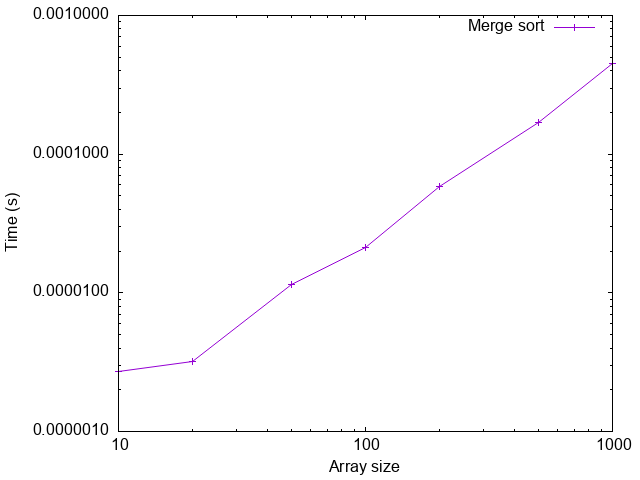
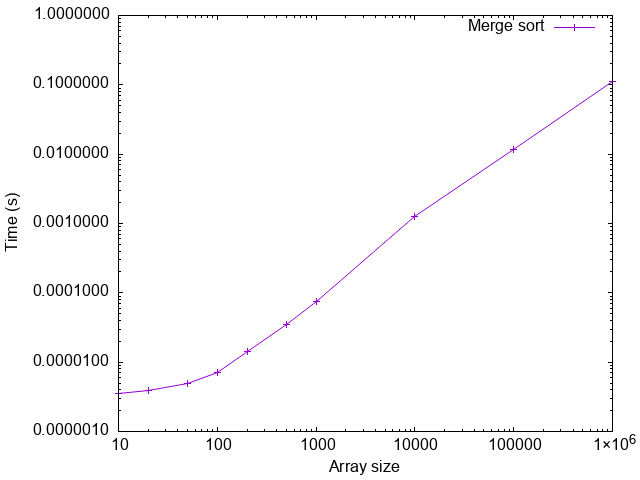
added std_sort

diff --git a/Students/Poppe/TP1/src/merge_sort.cpp b/Students/Poppe/TP1/src/merge_sort.cpp
@@ -4,11 +4,17 @@
 #include "merge_sort.hpp"
 #include "insertion_sort.hpp"
 
-void merge_sort_old(int* array, size_t size) {
+const size_t MERGE_SORT_THRESHOLD = 32;
+
+void merge_sort(int* array, size_t size) {
     int* temp = new int[size];
     int* from = array;
     int* into = temp;
-    for(size_t width = 1; width < size; width*=2) {
+    for(size_t l=0; l < size; l += MERGE_SORT_THRESHOLD) {
+        size_t len = std::min(MERGE_SORT_THRESHOLD, size - l);
+        insertion_sort(array + l, len);
+    }
+    for(size_t width = MERGE_SORT_THRESHOLD; width < size; width*=2) {
         for(size_t l=0; l < size; l += width * 2) {
             size_t l_len = std::min(width, size - l);
             size_t l_i = 0;
@@ -37,10 +43,11 @@ void merge_sort_old(int* array, size_t size) {
         }
         std::swap(from, into);
     }
-    if (into == from) {
+    if (from == temp) {
         //memcopy back since odd transfer count
         memcpy(array, temp, size * sizeof(int));
     }
+    delete[] temp;
 }
 
 void merge(int* array, size_t l, size_t l_end, size_t r, size_t r_end, int* output) {
@@ -70,9 +77,7 @@ void merge(int* array, size_t l, size_t l_end, size_t r, size_t r_end, int* outp
     }
 }
 
-const size_t MERGE_SORT_THRESHOLD = 32;
-
-void merge_sort(int* array, size_t size) {
+void merge_sort_inplace(int* array, size_t size) {
     if (size <= MERGE_SORT_THRESHOLD) {
         insertion_sort(array, size);
         return;
@@ -82,20 +87,18 @@ void merge_sort(int* array, size_t size) {
     while (sorted > 1) {
         size_t halved = sorted / 2;
         size_t quarter = halved / 2;
-        merge_sort(array + halved, quarter);
-        merge_sort(array + halved + quarter, halved - quarter);
+        merge_sort_inplace(array + halved, quarter);
+        merge_sort_inplace(array + halved + quarter, halved - quarter);
         merge(array + halved, 0, quarter, quarter, halved, array);
 
         merge(array, 0, halved, sorted, size, array + sorted - halved);
         sorted -= halved;
     }
-    if (sorted == 1) {
-        for (size_t i = 0; i < size - 1; i++) {
-            if (array[i] > array[i + 1]) {
-                std::swap(array[i], array[i + 1]);
-            } else {
-                break;
-            }
+    for (size_t i = 0; i < size - 1; i++) {
+        if (array[i] > array[i + 1]) {
+            std::swap(array[i], array[i + 1]);
+        } else {
+            break;
         }
     }
 }

diff --git a/Students/Poppe/TP1/src/test_sort.cpp b/Students/Poppe/TP1/src/test_sort.cpp
@@ -10,11 +10,14 @@
 #include "bubble_sort.hpp"
 #include "insertion_sort.hpp"
 #include "merge_sort.hpp"
+#include "std_sort.hpp"
 
 std::pair<std::function<void (int*, size_t)>, std::string> algorithms[] = {
-    std::make_pair(bubble_sort, "Bubble sort"), 
-    std::make_pair(insertion_sort, "Insertion sort"),
-    std::make_pair(merge_sort, "Merge sort")
+    //std::make_pair(bubble_sort, "Bubble sort"), 
+    //std::make_pair(insertion_sort, "Insertion sort"),
+    std::make_pair(merge_sort, "Merge sort"),
+    std::make_pair(merge_sort_inplace, "Merge sort (in-place)"),
+    std::make_pair(std_sort, "Std sort")
 };
 
 int* init_array(size_t n) {
@@ -51,7 +54,7 @@ std::chrono::duration<double> time_size(std::function<void (int*, size_t)> algor
     return end - start;
 }
 
-constexpr int sizes[] = {10, 20, 50, 100, 200, 500, 1000};
+constexpr int sizes[] = {10, 20, 50, 100, 200, 500, 1000, 10000, 100000, 1000000};
 
 void time_algorithm(std::function<void (int*, size_t)> algorithm, const std::string& name) {
     // create file name.txt and write the results in it

diff --git a/Students/Poppe/TP1/src/std_sort.cpp b/Students/Poppe/TP1/src/std_sort.cpp
@@ -1,0 +1,8 @@
+#include <utility>
+
+#include "std_sort.hpp"
+#include <algorithm> // for std::sort
+
+void std_sort(int* array, size_t size) {
+    std::sort(array, array + size);
+}

diff --git a/Students/Poppe/TP1/include/merge_sort.hpp b/Students/Poppe/TP1/include/merge_sort.hpp
@@ -3,3 +3,4 @@
 #include <cstddef> // for size_t
 
 void merge_sort(int* array, size_t n);
+void merge_sort_inplace(int* array, size_t n);

diff --git a/Students/Poppe/TP1/include/std_sort.hpp b/Students/Poppe/TP1/include/std_sort.hpp
@@ -1,0 +1,5 @@
+#pragma once
+
+#include <cstddef> // for size_t
+
+void std_sort(int* array, size_t n);
